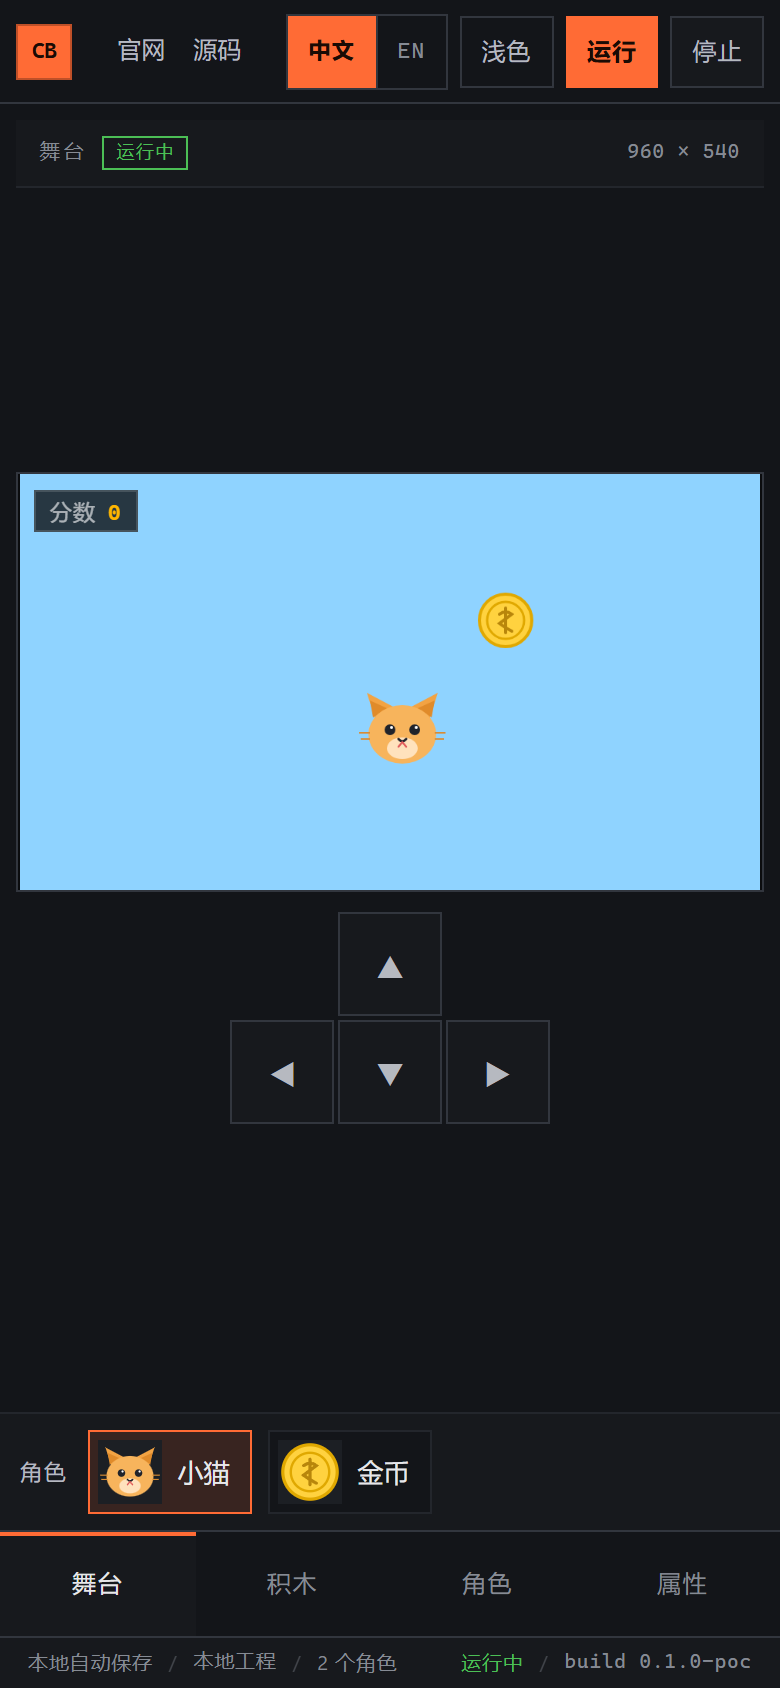
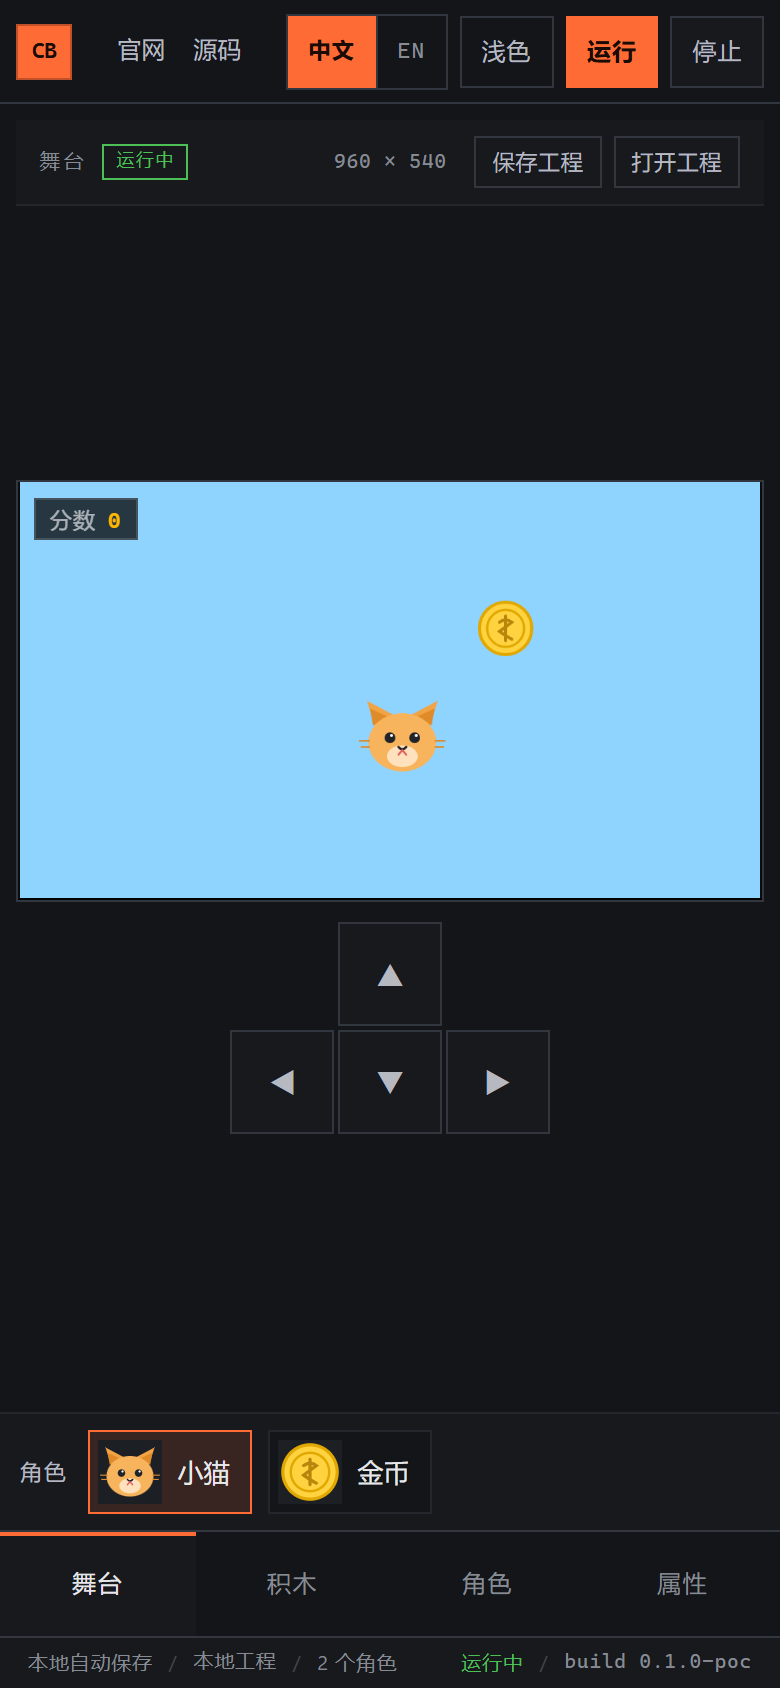
feat: save/open .gproj projects with block scripts, desktop toolbar + mobile stage header

diff --git a/site/index.html b/site/index.html
@@ -53,6 +53,7 @@
             <li>Blockly + Phaser 4</li>
             <li><span class="zh">中英双语</span><span class="en">Bilingual UI</span></li>
             <li><span class="zh">深浅主题</span><span class="en">Dark / light</span></li>
+            <li><span class="zh">.gproj 工程文件</span><span class="en">.gproj projects</span></li>
           </ul>
         </div>
         <figure class="hero-shot">
@@ -166,8 +167,8 @@
           <p class="eyebrow">Roadmap</p>
           <h2><span class="zh">现在到哪了</span><span class="en">Where it stands</span></h2>
           <p class="section-sub">
-            <span class="zh">M0 已打通「积木编辑 → 编译 → 运行」全链路，后续按 P0/P1 逐步补齐工程与导出能力。</span>
-            <span class="en">M0 ships the full edit → compile → run loop. Engineering and export features follow in P0/P1.</span>
+            <span class="zh">M0 已打通「积木编辑 → 编译 → 运行 → 保存工程」全链路，后续按 P0/P1 补齐素材与导出能力。</span>
+            <span class="en">M0 covers edit → compile → run → save project. Assets and export features follow in P0/P1.</span>
           </p>
         </div>
         <ol class="roadmap">
@@ -181,13 +182,23 @@
               </p>
             </div>
           </li>
+          <li class="is-done">
+            <span class="state"><span class="zh">已完成</span><span class="en">Shipped</span></span>
+            <div>
+              <h3><span class="zh">工程文件 .gproj</span><span class="en">.gproj project files</span></h3>
+              <p>
+                <span class="zh">保存/打开工程，积木脚本随文件带走；桌面顶栏与手机舞台页都有入口，打开后立刻可继续编辑。</span>
+                <span class="en">Save and open projects with their block scripts. Entry points on desktop and mobile; editing resumes right away.</span>
+              </p>
+            </div>
+          </li>
           <li>
             <span class="state"><span class="zh">下一步</span><span class="en">Next</span></span>
             <div>
-              <h3><span class="zh">工程文件与素材</span><span class="en">Project files &amp; assets</span></h3>
+              <h3><span class="zh">素材与角色管理</span><span class="en">Assets &amp; sprites</span></h3>
               <p>
-                <span class="zh">新建/保存/打开 .gproj，上传图片与音效，增删角色与造型。</span>
-                <span class="en">Create / save / open .gproj, upload images and sounds, add and remove sprites and costumes.</span>
+                <span class="zh">上传图片与音效，新建/删除角色和造型，让每个作品有自己的美术。</span>
+                <span class="en">Upload images and sounds, create and delete sprites and costumes so every project has its own art.</span>
               </p>
             </div>
           </li>

diff --git a/apps/editor/src/project-file.ts b/apps/editor/src/project-file.ts
@@ -1,0 +1,73 @@
+import { parseProject, type ProjectDoc } from '@cobble/project';
+
+/** .gproj 文件格式：外层包一层元信息，便于以后演进；老文件（裸 ProjectDoc）也能打开 */
+export interface ProjectFileShape {
+  format: 'cobble-studio';
+  version: 1;
+  project: ProjectDoc;
+  workspaces: Record<string, unknown>;
+}
+
+export interface OpenedProject {
+  project: ProjectDoc;
+  workspaces: Record<string, unknown>;
+}
+
+export type OpenResult = { ok: true; value: OpenedProject } | { ok: false; error: string };
+
+/** 由工程名生成文件名：保留字母数字（含中文），其余折叠成连字符 */
+export function projectFileName(project: ProjectDoc): string {
+  const base =
+    project.meta.name
+      .trim()
+      .toLowerCase()
+      .replace(/[^\p{L}\p{N}]+/gu, '-')
+      .replace(/^-+|-+$/g, '') || 'untitled';
+  return `${base}.gproj`;
+}
+
+export function serializeProject(project: ProjectDoc, workspaces: Record<string, unknown>): string {
+  const doc: ProjectFileShape = {
+    format: 'cobble-studio',
+    version: 1,
+    // 积木数据放在 workspaces 里，工程文档里的 scripts 不再重复存
+    project: { ...project, meta: { ...project.meta, updatedAt: new Date().toISOString() }, scripts: {} },
+    workspaces,
+  };
+  return JSON.stringify(doc, null, 2);
+}
+
+export function downloadProject(project: ProjectDoc, workspaces: Record<string, unknown>): void {
+  const blob = new Blob([serializeProject(project, workspaces)], { type: 'application/json' });
+  const url = URL.createObjectURL(blob);
+  const link = document.createElement('a');
+  link.href = url;
+  link.download = projectFileName(project);
+  document.body.appendChild(link);
+  link.click();
+  link.remove();
+  window.setTimeout(() => URL.revokeObjectURL(url), 1000);
+}
+
+function isRecord(value: unknown): value is Record<string, unknown> {
+  return typeof value === 'object' && value !== null && !Array.isArray(value);
+}
+
+export function parseProjectFile(text: string): OpenResult {
+  let raw: unknown;
+  try {
+    raw = JSON.parse(text);
+  } catch {
+    return { ok: false, error: 'file is not valid JSON' };
+  }
+  if (!isRecord(raw)) return { ok: false, error: 'file is not a project' };
+  const wrapped = 'format' in raw || 'project' in raw;
+  const parsed = parseProject(wrapped ? raw.project : raw);
+  if (!parsed.ok) return { ok: false, error: parsed.error };
+  const workspaces = wrapped && isRecord(raw.workspaces) ? raw.workspaces : {};
+  return { ok: true, value: { project: { ...parsed.project, scripts: {} }, workspaces } };
+}
+
+export async function readProjectFile(file: File): Promise<OpenResult> {
+  return parseProjectFile(await file.text());
+}

diff --git a/apps/editor/src/components/ProjectFileButtons.tsx b/apps/editor/src/components/ProjectFileButtons.tsx
@@ -1,0 +1,62 @@
+import { useRef } from 'react';
+import { useTranslation } from 'react-i18next';
+import { downloadProject, readProjectFile } from '../project-file';
+import { useEditorStore } from '../store';
+
+interface Props {
+  /** bar：桌面顶栏；inline：手机舞台页头部 */
+  variant?: 'bar' | 'inline';
+}
+
+export function ProjectFileButtons({ variant = 'bar' }: Props) {
+  const { t } = useTranslation();
+  const inputRef = useRef<HTMLInputElement | null>(null);
+  const inline = variant === 'inline';
+
+  const save = (): void => {
+    const state = useEditorStore.getState();
+    downloadProject(state.project, state.workspaces);
+  };
+
+  const open = async (file: File): Promise<void> => {
+    const result = await readProjectFile(file);
+    if (!result.ok) {
+      window.alert(t('toolbar.badFile'));
+      return;
+    }
+    useEditorStore.getState().replaceProject(result.value.project, result.value.workspaces);
+  };
+
+  return (
+    <div className={`file-actions${inline ? ' is-inline' : ''}`}>
+      <button
+        type="button"
+        className="btn btn-ghost"
+        data-testid={inline ? 'm-save-project' : 'save-project'}
+        onClick={save}
+      >
+        {t('toolbar.save')}
+      </button>
+      <button
+        type="button"
+        className="btn btn-ghost"
+        data-testid={inline ? 'm-open-project' : 'open-project'}
+        onClick={() => inputRef.current?.click()}
+      >
+        {t('toolbar.open')}
+      </button>
+      <input
+        ref={inputRef}
+        type="file"
+        accept=".gproj,application/json"
+        hidden
+        data-testid={inline ? 'm-open-project-input' : 'open-project-input'}
+        onChange={(event) => {
+          const file = event.target.files?.[0];
+          event.target.value = '';
+          if (file) void open(file);
+        }}
+      />
+    </div>
+  );
+}

diff --git a/apps/editor/src/App.tsx b/apps/editor/src/App.tsx
@@ -55,8 +55,8 @@ function bootstrap(): void {
   const translate = (key: string, options?: Record<string, unknown>): string =>
     String(i18n.t(key, options as never));
   defineGameBlocks({ t: translate, project: state.project });
-  // 首次打开：没有历史脚本，生成演示工程「小猫吃金币」
-  if (Object.keys(state.workspaces).length === 0) {
+  // 首次打开：没有历史脚本时，为内置演示工程生成「小猫吃金币」脚本
+  if (Object.keys(state.workspaces).length === 0 && state.project.meta.id === 'demo-cat-coin') {
     for (const [spriteId, workspace] of Object.entries(buildDemoWorkspaces(state.project))) {
       state.setWorkspace(spriteId, workspace);
     }
@@ -100,7 +100,7 @@ export function App() {
   if (!ready) {
     return (
       <div className="splash">
-        <span className="splash-mark">GF</span>
+        <span className="splash-mark">CB</span>
         <p className="splash-tagline">{t('app.tagline')}</p>
       </div>
     );

diff --git a/apps/editor/src/store.ts b/apps/editor/src/store.ts
@@ -43,6 +43,7 @@ interface EditorState {
   setTheme: (theme: ThemeMode) => void;
   markSaved: () => void;
   resetProject: () => void;
+  replaceProject: (project: ProjectDoc, workspaces: Record<string, unknown>) => void;
 }
 
 const snapshot = loadAutosave();
@@ -76,6 +77,15 @@ export const useEditorStore = create<EditorState>()((set) => ({
   markSaved: () => set({ savedAt: Date.now() }),
   resetProject: () => {
     localStorage.removeItem(AUTOSAVE_KEY);
+    location.reload();
+  },
+  replaceProject: (project, workspaces) => {
+    // 积木定义（下拉选项）依赖工程内容，因此打开新工程后整页重载最稳
+    try {
+      localStorage.setItem(AUTOSAVE_KEY, JSON.stringify({ project, workspaces }));
+    } catch {
+      // 配额不足时仍然重载，至少本次会话能看到新工程
+    }
     location.reload();
   },
 }));

diff --git a/apps/editor/src/components/StageView.tsx b/apps/editor/src/components/StageView.tsx
@@ -2,6 +2,7 @@ import { useCallback, useEffect, useRef, useState, type PointerEvent as ReactPoi
 import { useTranslation } from 'react-i18next';
 import { compileProject } from '@cobble/blocks';
 import { sendRun, setPlayerFrame } from '../bridge';
+import { ProjectFileButtons } from './ProjectFileButtons';
 import { useEditorStore } from '../store';
 import { useCoarsePointer } from '../useCompact';
 
@@ -87,6 +88,7 @@ export function StageView({ compact = false }: Props) {
         <span className="panel-meta mono">
           {t('stage.size', { w: project.stage.width, h: project.stage.height })}
         </span>
+        {compact && <ProjectFileButtons variant="inline" />}
       </div>
       <div className="stage-body">
         <div className="stage-frame">

diff --git a/apps/editor/src/components/Topbar.tsx b/apps/editor/src/components/Topbar.tsx
@@ -3,6 +3,7 @@ import { useTranslation } from 'react-i18next';
 import { compileProject } from '@cobble/blocks';
 import { switchLocale, type Locale } from '@cobble/i18n';
 import { sendRun, sendStop } from '../bridge';
+import { ProjectFileButtons } from './ProjectFileButtons';
 import { useEditorStore } from '../store';
 import { REPO_URL, SITE_URL } from '../links';
 
@@ -56,6 +57,10 @@ export function Topbar() {
       </nav>
 
       <div className="topbar-actions">
+        <div className="topbar-files">
+          <ProjectFileButtons />
+        </div>
+
         <div className="segmented" role="group" aria-label={t('toolbar.language')}>
           <button
             type="button"

diff --git a/apps/editor/src/styles/global.css b/apps/editor/src/styles/global.css
@@ -1105,3 +1105,29 @@ button {
 .app-compact .status-links {
   display: none;
 }
+
+/* 工程文件：桌面顶栏入口 + 手机舞台页头部入口 */
+.file-actions {
+  display: flex;
+  align-items: center;
+  gap: 6px;
+}
+
+.file-actions .btn {
+  padding: 4px 10px;
+  font-size: 11px;
+}
+
+.file-actions.is-inline {
+  margin-left: 6px;
+}
+
+.file-actions.is-inline .btn {
+  min-height: 26px;
+  padding: 2px 8px;
+  font-size: 11px;
+}
+
+.app-compact .topbar-files {
+  display: none;
+}

diff --git a/packages/i18n/src/locales/en.ts b/packages/i18n/src/locales/en.ts
@@ -14,6 +14,9 @@ export const en: Messages = {
     saved: 'Saved',
     website: 'Website',
     source: 'Source',
+    save: 'Save project',
+    open: 'Open project',
+    badFile: 'That file is not a valid .gproj project',
   },
   panels: {
     stage: 'Stage',

diff --git a/packages/i18n/src/locales/zh-CN.ts b/packages/i18n/src/locales/zh-CN.ts
@@ -12,6 +12,9 @@ export const zhCN = {
     saved: '已保存',
     website: '官网',
     source: '源码',
+    save: '保存工程',
+    open: '打开工程',
+    badFile: '这个文件不是有效的 .gproj 工程',
   },
   panels: {
     stage: '舞台',
